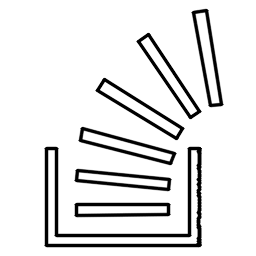
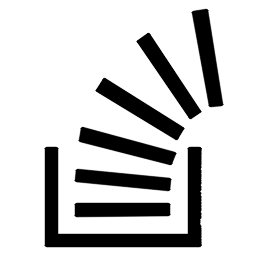
Fix stroke/fill rendering issue by removing canvas.clear() from PathRenderer.update_canvas()

diff --git a/kivg/rendering/path_renderer.py b/kivg/rendering/path_renderer.py
@@ -25,8 +25,6 @@ class PathRenderer:
             default_color: Default RGBA color for lines without stroke attribute
             default_width: Default width for lines without stroke-width attribute
         """
-        canvas.clear()
-        
         line_count = 0
         bezier_count = 0
         
